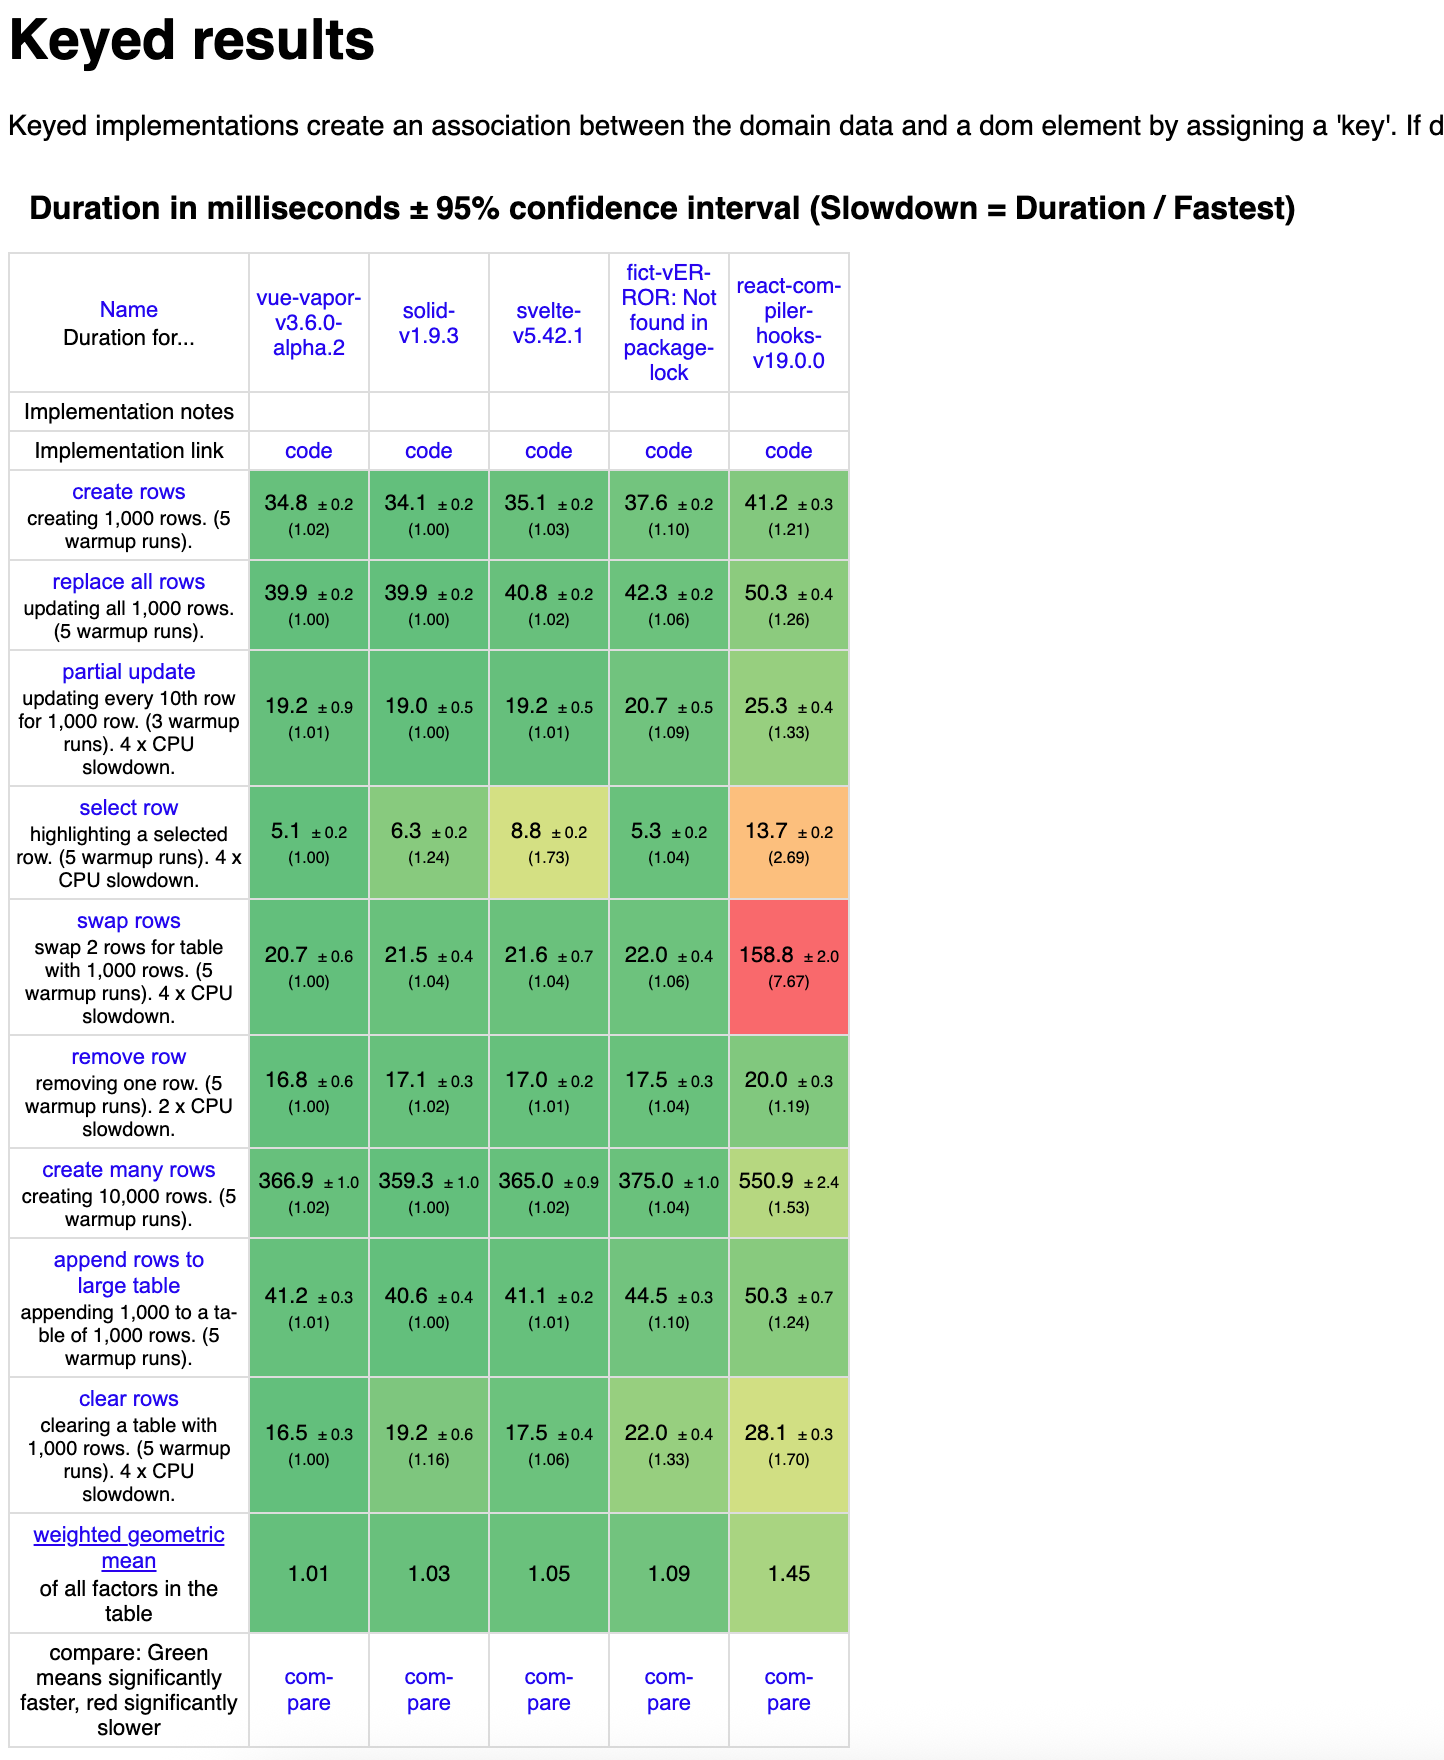
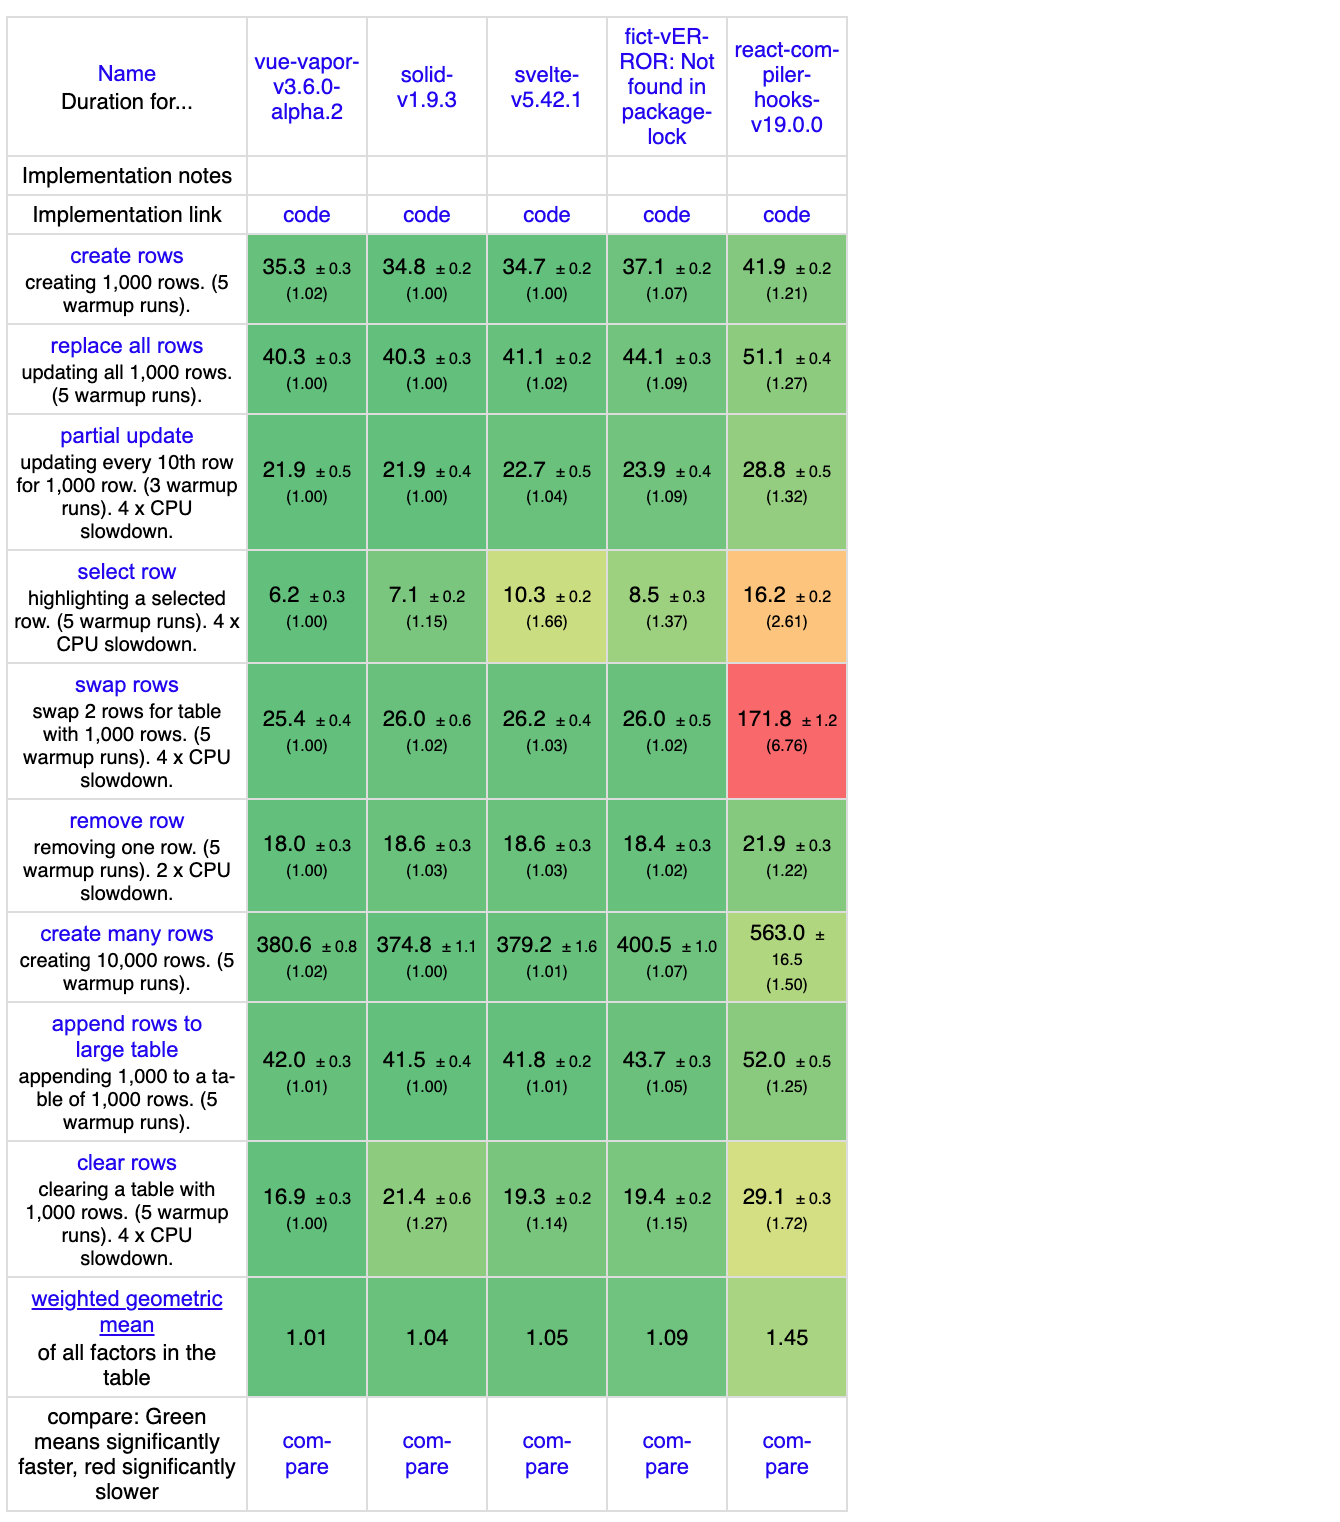
docs(fict): update readme

Changed region(s): [[0.0, 0.0, 1.0, 1.0]]

diff --git a/README.md b/README.md
@@ -404,11 +404,11 @@ The compiler detects this automatically. You don't need to think about it — wr
 
 ### Benchmark Summary (Geometric Mean)
 
-| Metric             | Solid | Vue Vapor | Svelte 5 | Fict | React Compiler |
-| :----------------- | :---- | :-------- | :------- | :--- | :------------- |
-| **CPU (Duration)** | 1.03  | 1.01      | 1.05     | 1.09 | 1.45           |
-| **Memory**         | 1.00  | 1.28      | 1.27     | 1.40 | 2.26           |
-| **Size / Load**    | 1.00  | 2.72      | 2.37     | 4.92 | 10.06          |
+| Metric             | Vue Vapor | Solid | Svelte 5 | Fict | React Compiler |
+| :----------------- | :-------- | :---- | :------- | :--- | :------------- |
+| **CPU (Duration)** | 1.01      | 1.04  | 1.05     | 1.09 | 1.45           |
+| **Memory**         | 1.24      | 1.00  | 1.20     | 1.22 | 2.08           |
+| **Size / Load**    | 2.62      | 1.00  | 2.23     | 2.23 | 9.65           |
 
 _Lower is better. Baseline relative to best performer in each category._
 
